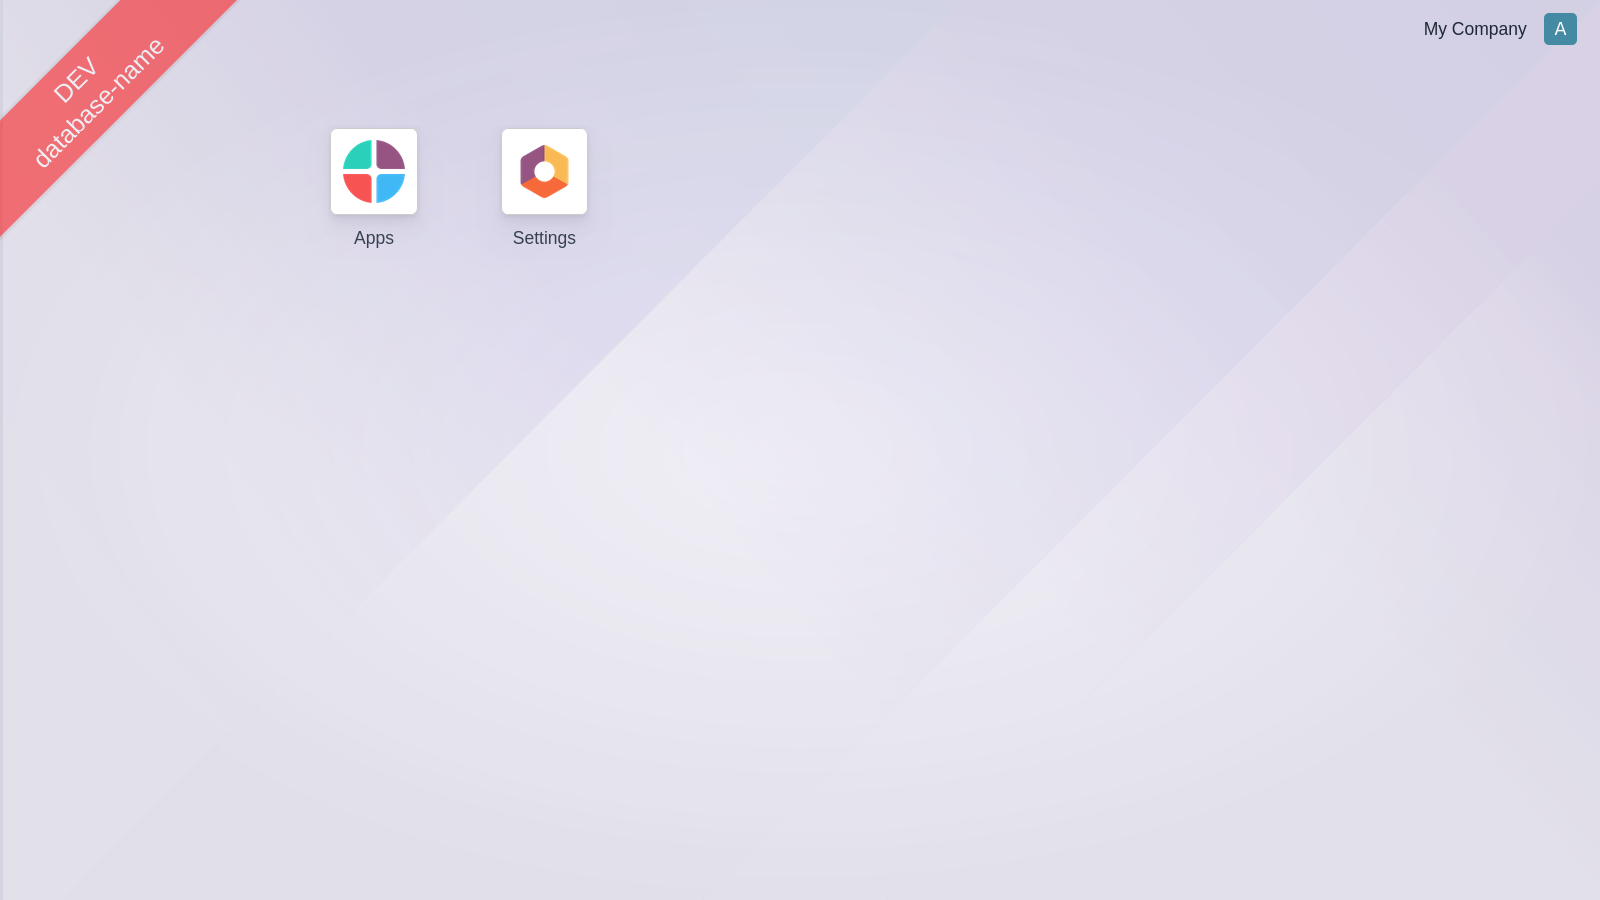
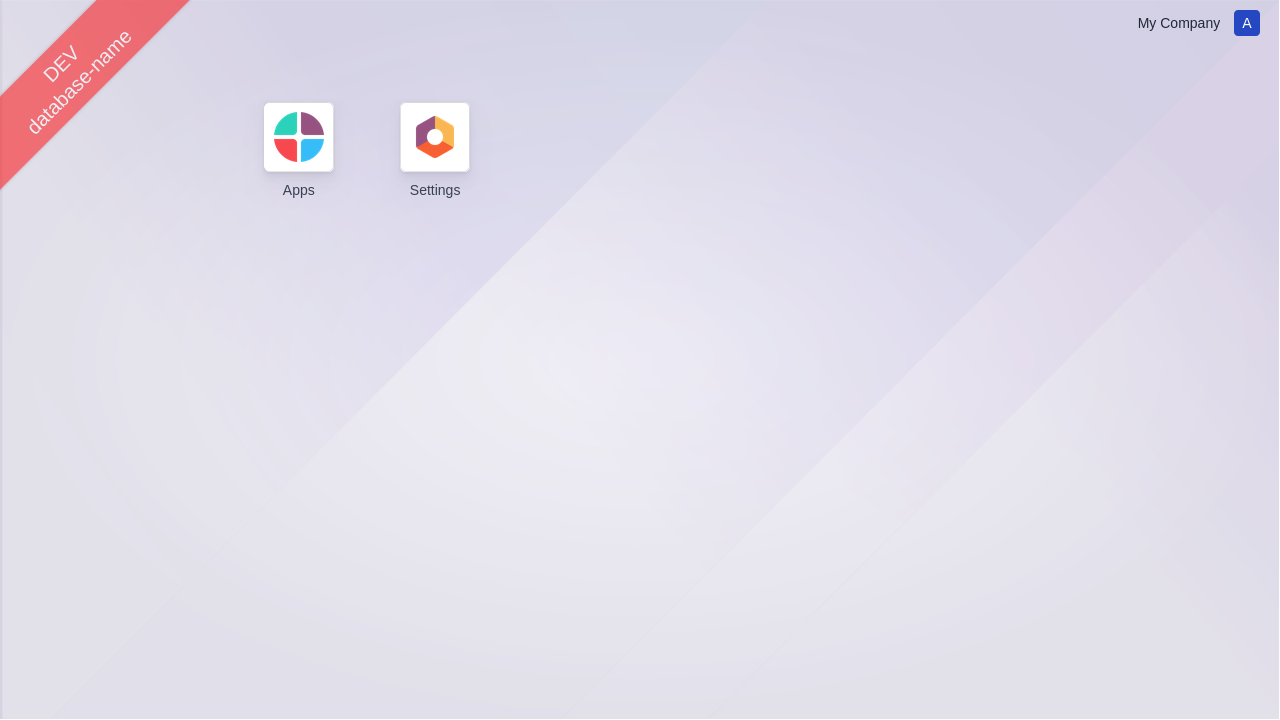
Adjust screenshot spacing and resize images to 1280x720
- Added Bootstrap class 'mt-4' to add vertical spacing before settings.png.
- Resized both banner.png and settings.png to 1280x720 to maintain a consistent 16:9 aspect ratio.

diff --git a/ribbon_banner/static/description/index.html b/ribbon_banner/static/description/index.html
@@ -48,7 +48,7 @@
         </ol>
         <h2>Screenshots</h2>
         <img src="./banner.png" alt="Ribbon Banner Example" class="screenshot">
-        <img src="./settings.png" alt="Ribbon Banner Settings" class="screenshot">
+        <img src="./settings.png" alt="Ribbon Banner Settings" class="screenshot mt-4">
         <h2>Support</h2>
         <p>
             For issues or feature requests, contact <a href="mailto:edgardo.rios@gmail.com">edgardo.rios@gmail.com</a> or visit <a href="https://github.com/edgardorios/ribbon-banner">GitHub</a>.
